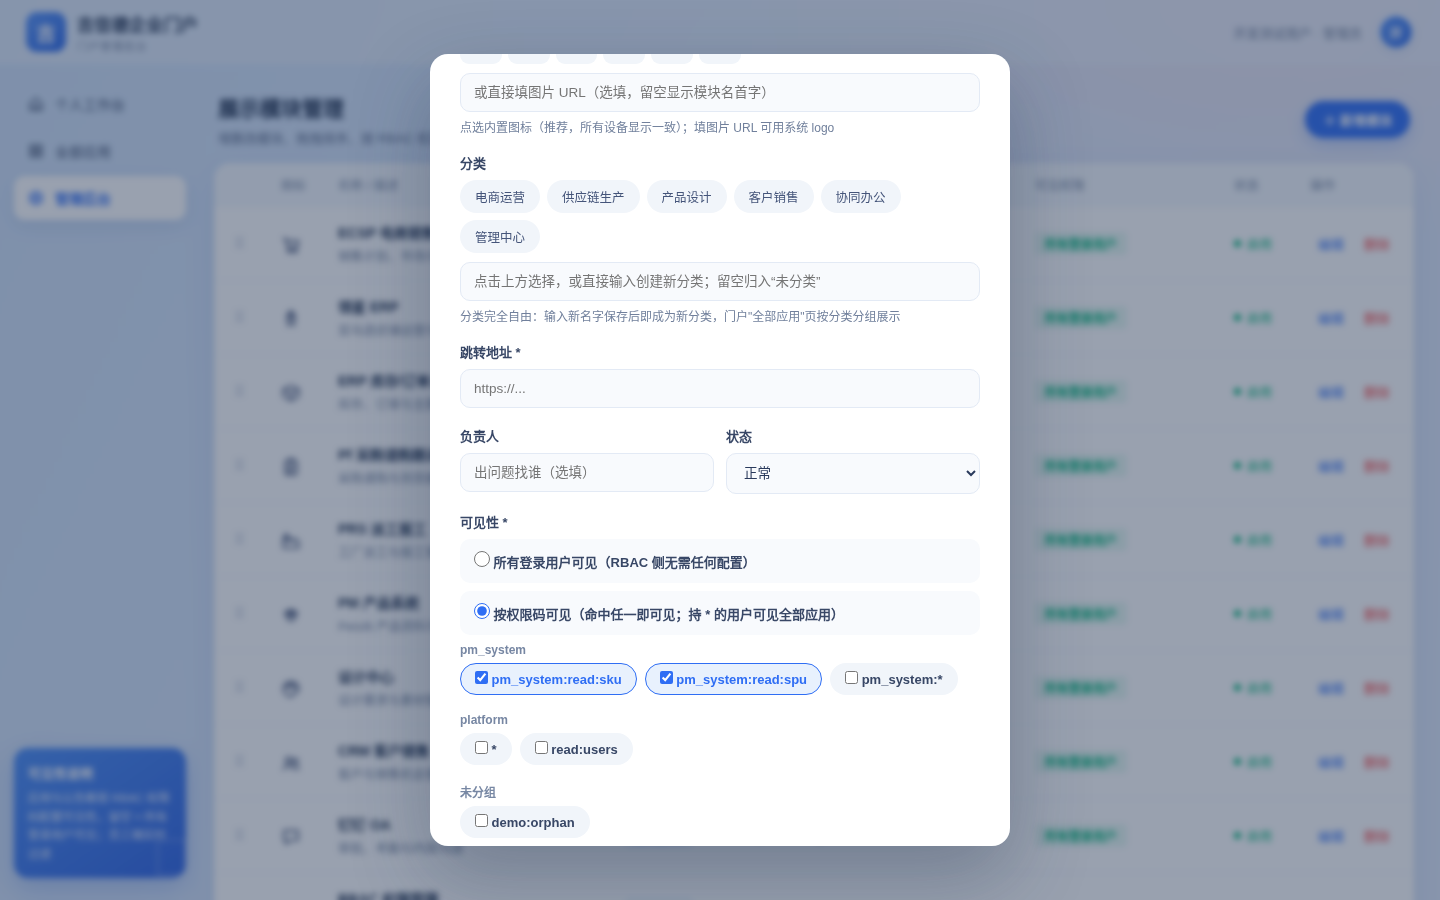
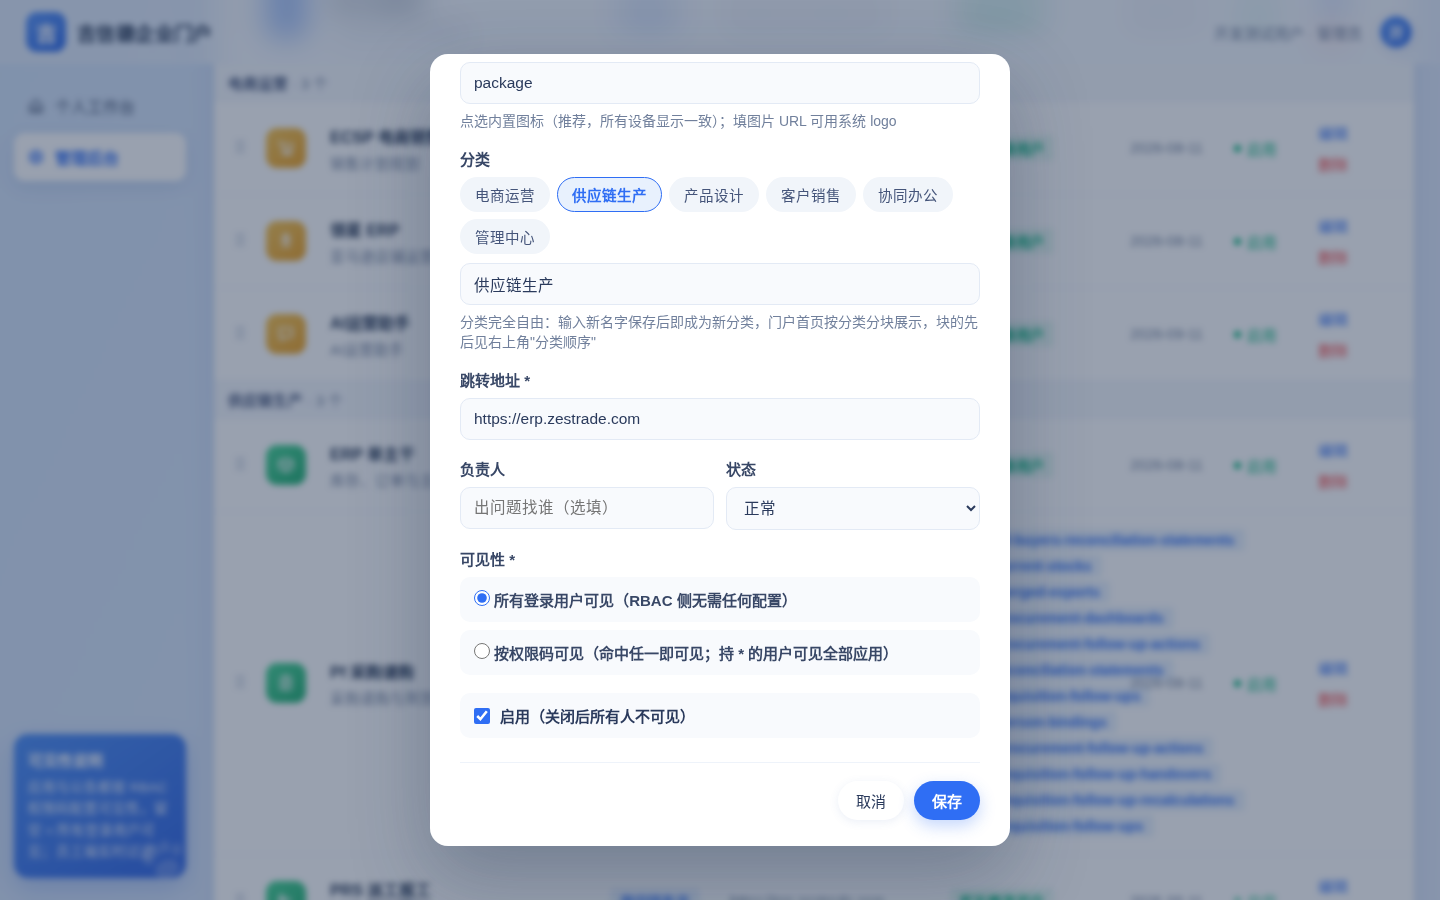
后台：编辑弹窗加门户磁贴实时预览，页头加"查看门户"链接
- 预览与门户磁贴同一套结构、尺寸与徽标（badgeHTML），名称/描述/图标/分类底色/
  负责人/维护中/停用态随输入即时变化；点图标格与分类片也触发刷新
- "分类顺序"按钮改名"分类顺序与颜色"；README 与弹窗截图同步

Claude-Session: https://claude.ai/code/session_01BAxynfU9L2otk6eujC6Rm9

diff --git a/frontend/admin.html b/frontend/admin.html
@@ -181,6 +181,22 @@
   tr.grp td { background: #f4f7fc; color: #45557a; font-weight: 700; font-size: 14.5px; padding: 8px 14px; }
   .mod-time { color: var(--dim); font-size: 14.5px; white-space: nowrap; }
   .btn:disabled { opacity: .45; cursor: not-allowed; box-shadow: none; }
+  /* 编辑弹窗顶部：门户磁贴实时预览（与门户 .acard 同一套尺寸与配色） */
+  .preview-box { background: #fff; border: 1px dashed #c4d8f8; border-radius: 12px; padding: 12px 14px 14px; margin-bottom: 18px; }
+  .preview-box .pv-t { font-size: 13.5px; color: var(--dim); margin-bottom: 8px; }
+  .pv-card {
+    display: flex; align-items: center; gap: 14px; position: relative; width: min(300px, 100%);
+    background: #f4f8fd; border: 1px solid #eaf1fa; border-radius: 12px; padding: 17px 16px;
+  }
+  .pv-card .ic { width: 48px; height: 48px; border-radius: 13px; font-size: 25px; color: #fff; display: grid; place-items: center; flex: none; }
+  .pv-card .ic img { width: 26px; height: 26px; object-fit: contain; }
+  .pv-card > div { flex: 1; min-width: 0; }
+  .pv-card b { display: block; font-size: 16.5px; font-weight: 650; color: var(--ink-strong); white-space: nowrap; overflow: hidden; text-overflow: ellipsis; }
+  .pv-card span { display: block; font-size: 14px; color: var(--dim); margin-top: 5px; line-height: 1.5; white-space: nowrap; overflow: hidden; text-overflow: ellipsis; }
+  .pv-card .maint { display: inline-block; font-style: normal; font-size: 12.5px; font-weight: 600; color: #c2701a; background: #fff3e0; border-radius: 999px; padding: 2px 8px; margin-left: 6px; }
+  .pv-card .owner-line { font-size: 13px; color: #93a1bc; margin-top: 4px; }
+  .pv-card.off { opacity: .45; }
+  .pv-card.off::after { content: '已停用 · 门户不展示'; position: absolute; right: 12px; top: 10px; font-size: 12px; color: #c2701a; }
   /* 分类顺序弹窗：可拖拽的分类清单 */
   .cat-list { list-style: none; margin: 0; padding: 0; display: flex; flex-direction: column; gap: 8px; }
   .cat-list li {
@@ -263,7 +279,8 @@
           <p>增删改模块、拖拽排序、按 RBAC 权限码配置可见性。"可见权限"为空 = 所有登录用户可见。</p>
         </div>
         <div class="actions">
-          <button class="btn" id="catOrderBtn">分类顺序</button>
+          <a class="btn" href="/" target="_blank" rel="noopener" title="新开标签页查看门户实际效果">查看门户 ↗</a>
+          <button class="btn" id="catOrderBtn">分类顺序与颜色</button>
           <button class="btn save-order" id="saveOrderBtn">保存排序</button>
           <button class="btn primary" id="addBtn">＋ 新增模块</button>
         </div>
@@ -381,6 +398,10 @@
   <div class="modal">
     <h2 id="modalTitle">新增模块</h2>
     <div class="modal-sub">配置门户上展示的应用入口；带 * 为必填</div>
+    <div class="preview-box">
+      <div class="pv-t">门户效果预览（随下方输入实时变化；底色由分类决定）</div>
+      <div id="pvCard"></div>
+    </div>
     <div class="field">
       <label>模块名称 *</label>
       <input type="text" id="fName" maxlength="50" placeholder="例如：领星 ERP">
@@ -937,6 +958,7 @@ document.getElementById('iconGrid').addEventListener('click', (e) => {
   const input = document.getElementById('fIcon');
   input.value = input.value.trim() === cell.dataset.icon ? '' : cell.dataset.icon;
   renderIconGrid();
+  renderPreview();
 });
 document.getElementById('fIcon').addEventListener('input', renderIconGrid);
 
@@ -958,8 +980,32 @@ document.getElementById('catChips').addEventListener('click', (e) => {
   // 再点一次已选中的分类 = 取消选择
   input.value = input.value.trim() === chip.dataset.cat ? '' : chip.dataset.cat;
   renderCatChips();
+  renderPreview();
 });
 document.getElementById('fCat').addEventListener('input', renderCatChips);
+
+/* 编辑弹窗里的门户磁贴预览：读表单当前值，与门户 tileHTML 同一套结构与徽标 */
+function renderPreview() {
+  const m = {
+    name: document.getElementById('fName').value.trim() || '模块名称',
+    description: document.getElementById('fDesc').value.trim(),
+    icon: document.getElementById('fIcon').value.trim(),
+    category: document.getElementById('fCat').value.trim(),
+    owner_name: document.getElementById('fOwner').value.trim(),
+    status: document.getElementById('fStatus').value,
+    enabled: document.getElementById('fEnabled').checked,
+  };
+  const maint = m.status === 'maintenance' ? '<em class="maint">维护中</em>' : '';
+  const owner = m.owner_name ? `<span class="owner-line">负责人：${esc(m.owner_name)}</span>` : '';
+  document.getElementById('pvCard').innerHTML = `<div class="pv-card ${m.enabled ? '' : 'off'}">
+    ${badgeHTML(m, categoryColors, 48)}
+    <div><b title="${esc(m.name)}">${esc(m.name)}${maint}</b><span>${esc(m.description) || '&nbsp;'}</span>${owner}</div>
+  </div>`;
+}
+['fName', 'fDesc', 'fIcon', 'fCat', 'fOwner', 'fStatus', 'fEnabled'].forEach(id =>
+  document.getElementById(id).addEventListener('input', renderPreview));
+document.getElementById('fStatus').addEventListener('change', renderPreview);
+document.getElementById('fEnabled').addEventListener('change', renderPreview);
 
 function openModal(title, m) {
   document.getElementById('modalTitle').textContent = title;
@@ -973,6 +1019,7 @@ function openModal(title, m) {
   document.getElementById('fEnabled').checked = m ? m.enabled : true;
   renderIconGrid();
   renderCatChips();
+  renderPreview();
   modulePerms.open(m?.requires);
   document.getElementById('overlay').classList.add('open');
 }

diff --git a/README.md b/README.md
@@ -102,6 +102,8 @@ pip install -r requirements-dev.txt && pytest
   未选过的分类按分类名哈希取默认色，同名永远同色，不随排序或可见范围变化
 - 预置分类：电商运营 / 供应链生产 / 产品设计 / 客户销售 / 协同办公，
   管理后台可自由输入新分类名
+- 管理后台：页头"查看门户"新开标签页看实际效果；新增/编辑弹窗顶部有门户磁贴实时预览
+  （名称、描述、图标、分类底色、负责人、维护中、停用态随输入即时变化，与门户同一份徽标）
 - 管理后台模块表默认按分类分组展示，组内拖拽调整门户里同分类下的先后（不能跨组拖，
   改分类走"编辑"）。工具栏：搜索（名称/描述/地址/权限码/负责人）、按分类筛选、排序
   （按分类 / 接入时间新旧 / 最近修改）。"接入时间" = 记录 `created_at`（首批 12 个为
